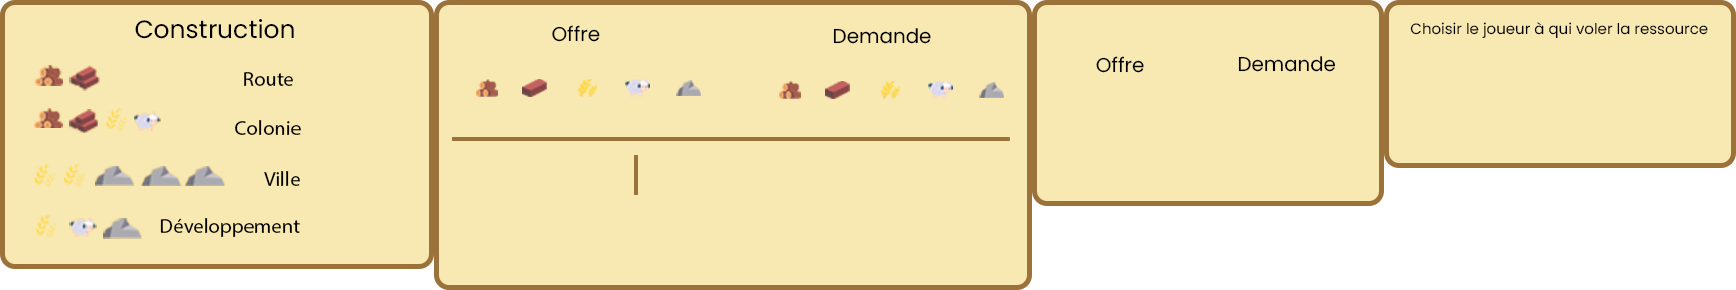
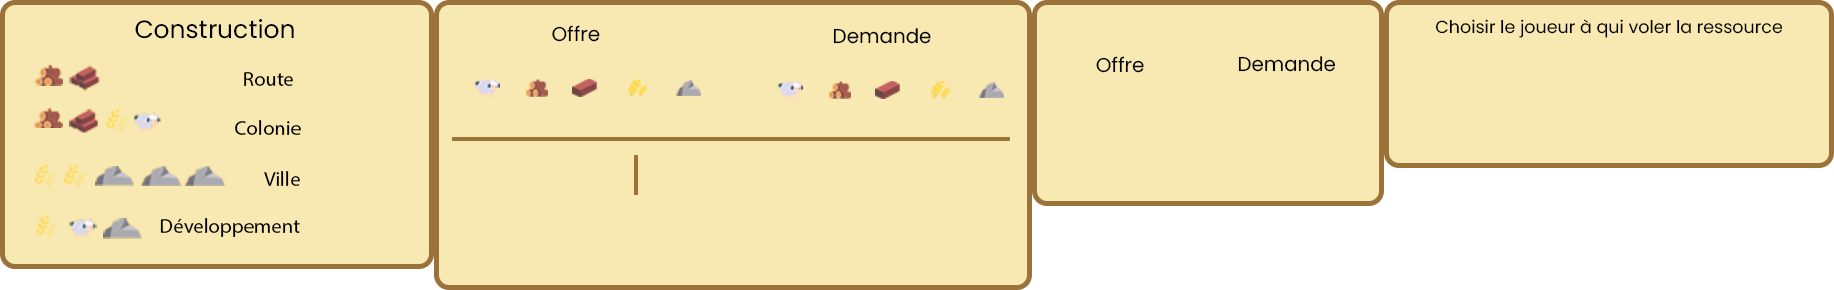
menu voleur

diff --git a/src/shared/view/MenuThief.cpp b/src/shared/view/MenuThief.cpp
@@ -1,5 +1,6 @@
 #include "MenuThief.h"
 #include "ButtonValidate.h"
+#include "ButtonSelect.h"
 
 namespace view{
 
@@ -10,35 +11,30 @@ MenuThief::MenuThief(state::State* state, sf::Texture menuTexture, state::Player
     this->displayState = displayState;
     this->coords = coords;
 
-    spriteMenu = new sf::Sprite(this->menuTexture, sf::IntRect(1384, 0, 351, 167));
+    spriteMenu = new sf::Sprite(this->menuTexture, sf::IntRect(1385, 0, 450, 167));
     spriteMenu->setOrigin(spriteMenu->getGlobalBounds().width/2, 0);
     spriteMenu->setPosition(1280/2, 720 - spriteMenu->getGlobalBounds().height);
 
     font.loadFromFile("../res/poppins.ttf");
-    int fontSize = 19;
+    int fontSize = 20;
+
+    sf::Texture buttonTexture;
+    buttonTexture.loadFromFile("./../res/button.png");
+    buttonTexture.setSmooth(true);
+
+    int gapbtwnames = 150, i = 0, x, y;
 
     for(state::Player playersName : this->state->players){
-        if(playersName.playerColor != this->state->turn)
-            namePlayers.push_back(sf::Text(playersName.name, font, fontSize));
+        if(playersName.playerColor != playerColor){
+            x = spriteMenu->getPosition().x - spriteMenu->getGlobalBounds().width/2 + gapbtwnames * (i) + 75;
+            y = spriteMenu->getPosition().y + spriteMenu->getGlobalBounds().height/2;
+            
+            buttonsSelect.push_back(new ButtonSelect(buttonTexture, sf::IntRect(x, y, 143, 48), (Select_ID) (i+4), playersName.name,  this->displayState));
+            i++;
+        }
     }
 
-
-
-    int gapbtwnames = 85;
-    for(int i =0; i < (int) namePlayers.size(); i++){
-        namePlayers[i].setColor(sf::Color(0, 0, 0));
-        namePlayers[i].setOrigin(namePlayers[i].getGlobalBounds().width/2, 0);
-        namePlayers[i].setPosition(spriteMenu->getPosition().x - spriteMenu->getGlobalBounds().width/2 + gapbtwnames * (i+1), spriteMenu->getPosition().y + 60);
-    }
-
-//     spriteButton = new sf::Sprite(this->menuTexture, sf::IntRect(0, 290, 178, 48));
-//     spriteButton->setOrigin(spriteButton->getGlobalBounds().width/2, 0);
-//     spriteButton->setPosition(spriteMenu->getPosition().x, spriteMenu->getPosition().y + 100);
-
-        sf::Texture buttonTexture;
-        buttonTexture.loadFromFile("./../res/button.png");
-        buttonTexture.setSmooth(true);
-        buttonValidate = new view::ButtonValidate(buttonTexture, sf::IntRect(spriteMenu->getPosition().x, spriteMenu->getPosition().y + 100, 122, 48), "Valider", this->displayState);
+        //buttonValidate = new view::ButtonValidate(buttonTexture, sf::IntRect(spriteMenu->getPosition().x, spriteMenu->getPosition().y + 100, 122, 48), "Valider", this->displayState);
 
 }
 
@@ -46,10 +42,12 @@ MenuThief::MenuThief(state::State* state, sf::Texture menuTexture, state::Player
 
 void MenuThief::render(sf::RenderTarget& target){
     target.draw(*spriteMenu);
-    for(sf::Text names : namePlayers){
-        target.draw(names);
+    for(int i = 0; i < buttonsSelect.size(); i++){
+        buttonsSelect[i]->render(target);
     }
-    buttonValidate->render(target);
+    //buttonValidate->render(target);
+
+
 }
 
 void MenuThief::update(){}

diff --git a/src/shared/view/StateView.cpp b/src/shared/view/StateView.cpp
@@ -126,6 +126,9 @@ void StateView::updateClickableObjects(state::PlayerColor playerColor)
     state::Resource giving;
     state::Resource receiving;
 
+    if(state->gameState == state::GameState::PLACE_THIEF_STATE)
+        displayState = PLACE_THIEF;
+    
     if(displayState != CHOOSING_EXCHANGE){
         deleteMenu(&clickableMenu);
         deleteButton(&clickableButton);
@@ -165,7 +168,6 @@ void StateView::updateClickableObjects(state::PlayerColor playerColor)
     case CHOOSING_EXCHANGE :
         //menu d'attente de création de la commande échange
         if(((Button*)((MenuExchange*) clickableMenu.back())->buttonValidate)->clicked){
-            std::cout << "a\n";
             if(((MenuExchange*) clickableMenu.back())->isOnlyOne()){
                 std::cout << "echange !" << std::endl;
                 
@@ -183,7 +185,11 @@ void StateView::updateClickableObjects(state::PlayerColor playerColor)
             }
             else{
                 ((Button*)((MenuExchange*) clickableMenu.back())->buttonValidate)->clicked = 0;
+                std::cout << "proposer un échange correct" << std::endl;
             }
+        }
+        else{
+            std::cout << "bouton non cliqué" << std::endl;
         }
             
         break;
@@ -203,6 +209,10 @@ void StateView::updateClickableObjects(state::PlayerColor playerColor)
 
     case PLACE_THIEF :
         clickableMenu.push_back((Menu*) new MenuThief(state, *menuTexture, state->turn, sf::IntRect(1280/2 - 351, 720 - 167, 351, 167), &displayState));
+        for (int i=0; i < ((MenuThief*) clickableMenu.back())->buttonsSelect.size(); i++)
+            clickableButton.push_back((Button*) ((MenuThief*) clickableMenu.back())->buttonsSelect[i]);
+        
+        //clickableButton.push_back((Button*) ((MenuThief*) clickableMenu.back())->buttonValidate);
         break;
 
     case THROW_DICE :
@@ -212,8 +222,6 @@ void StateView::updateClickableObjects(state::PlayerColor playerColor)
         sprintf(s, "throwdice-%d", (int) state->turn);
         engine->addSerializedCommand(s);
         break;
-
-
 
     default:
         break;

diff --git a/src/shared/view/ButtonValidate.cpp b/src/shared/view/ButtonValidate.cpp
@@ -23,6 +23,8 @@ ButtonValidate::ButtonValidate(sf::Texture buttonTexture, sf::IntRect coords, st
     text->setOrigin(text->getGlobalBounds().width/2, text->getGlobalBounds().height/2);
     text->setPosition(spriteButton->getPosition().x, spriteButton->getPosition().y + spriteButton->getGlobalBounds().height/2 - 7);
 
+    this->coords.left -= spriteButton->getGlobalBounds().width/2;
+
 }
 
 bool ButtonValidate::isClicked(int x, int y){
@@ -39,7 +41,7 @@ bool ButtonValidate::isReleased(int x, int y){
         std::cout << "Boutton Valider" << std::endl;
         result = true;
     }
-    //clicked = 0;
+    clicked = 0;
     this->update();
 
     return result;
